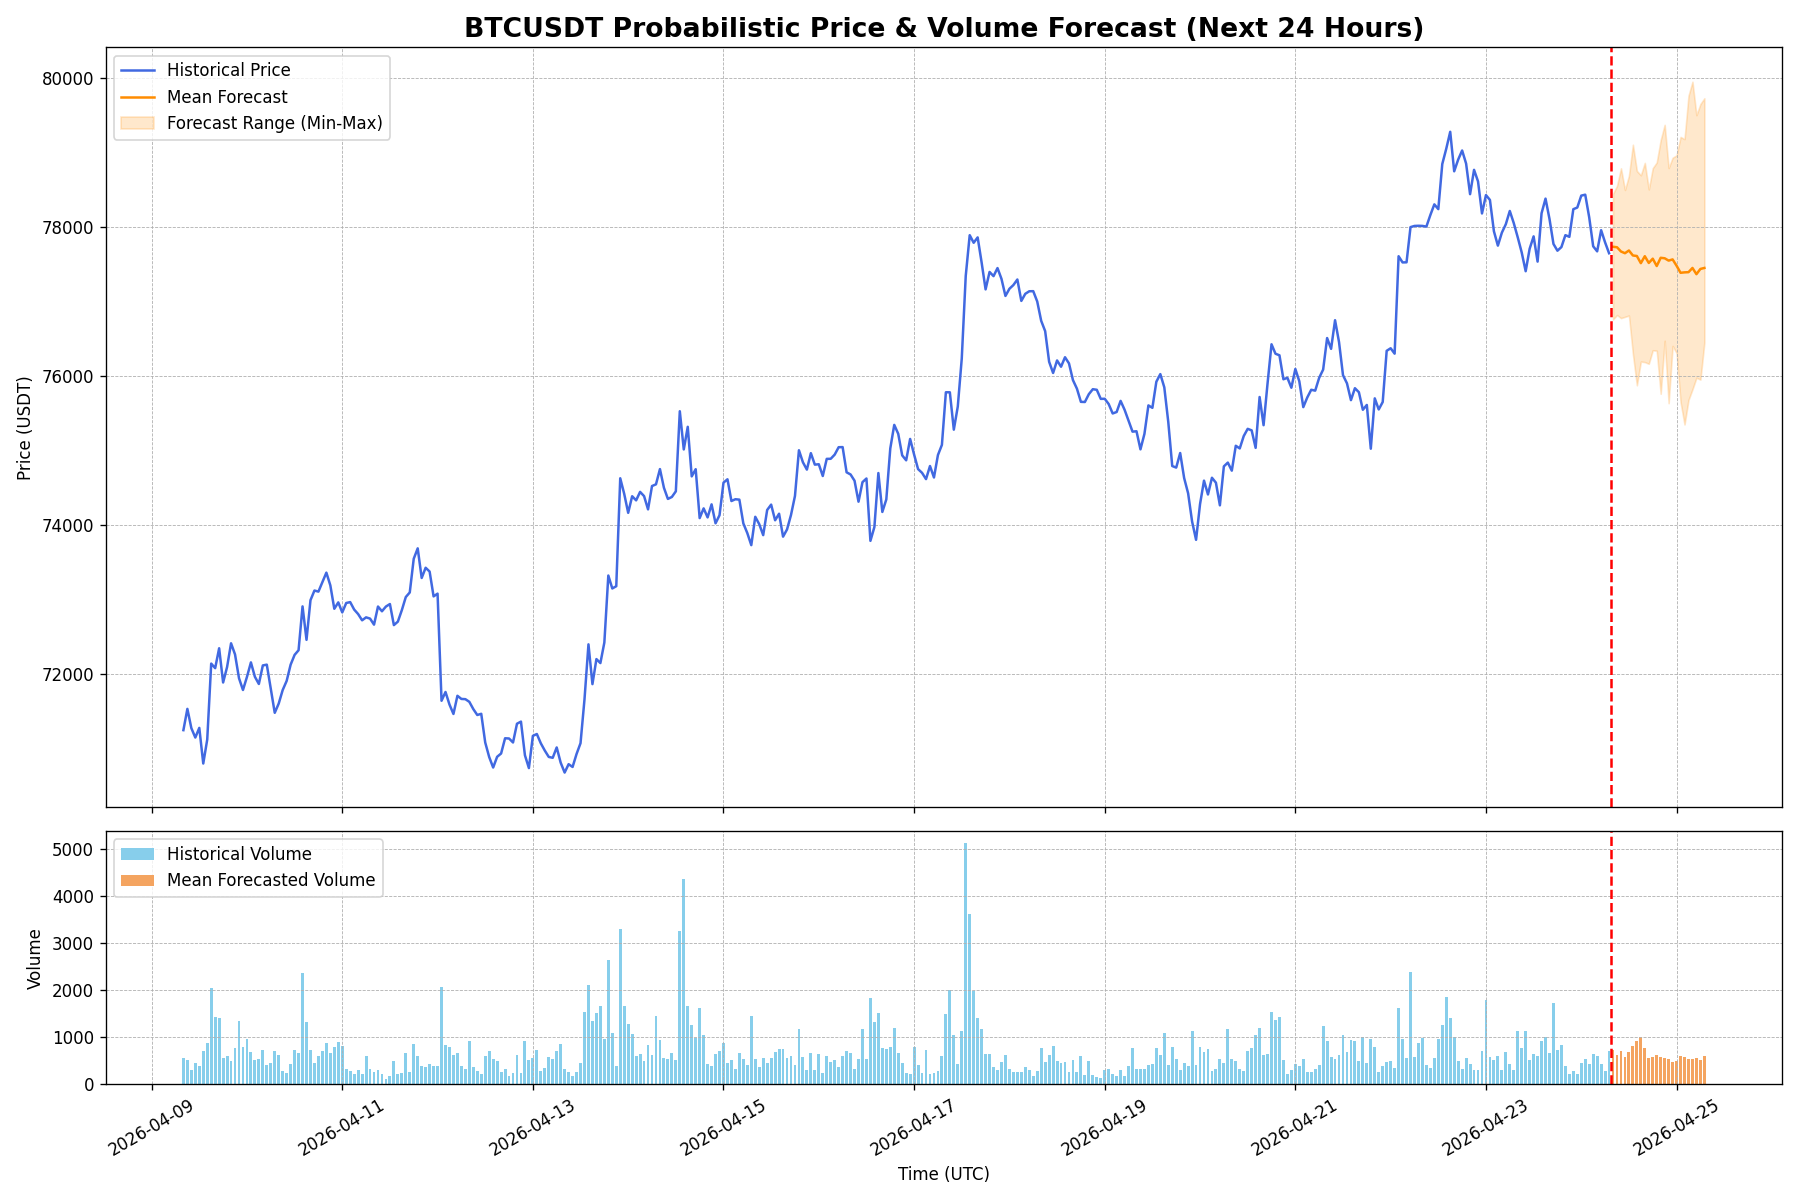
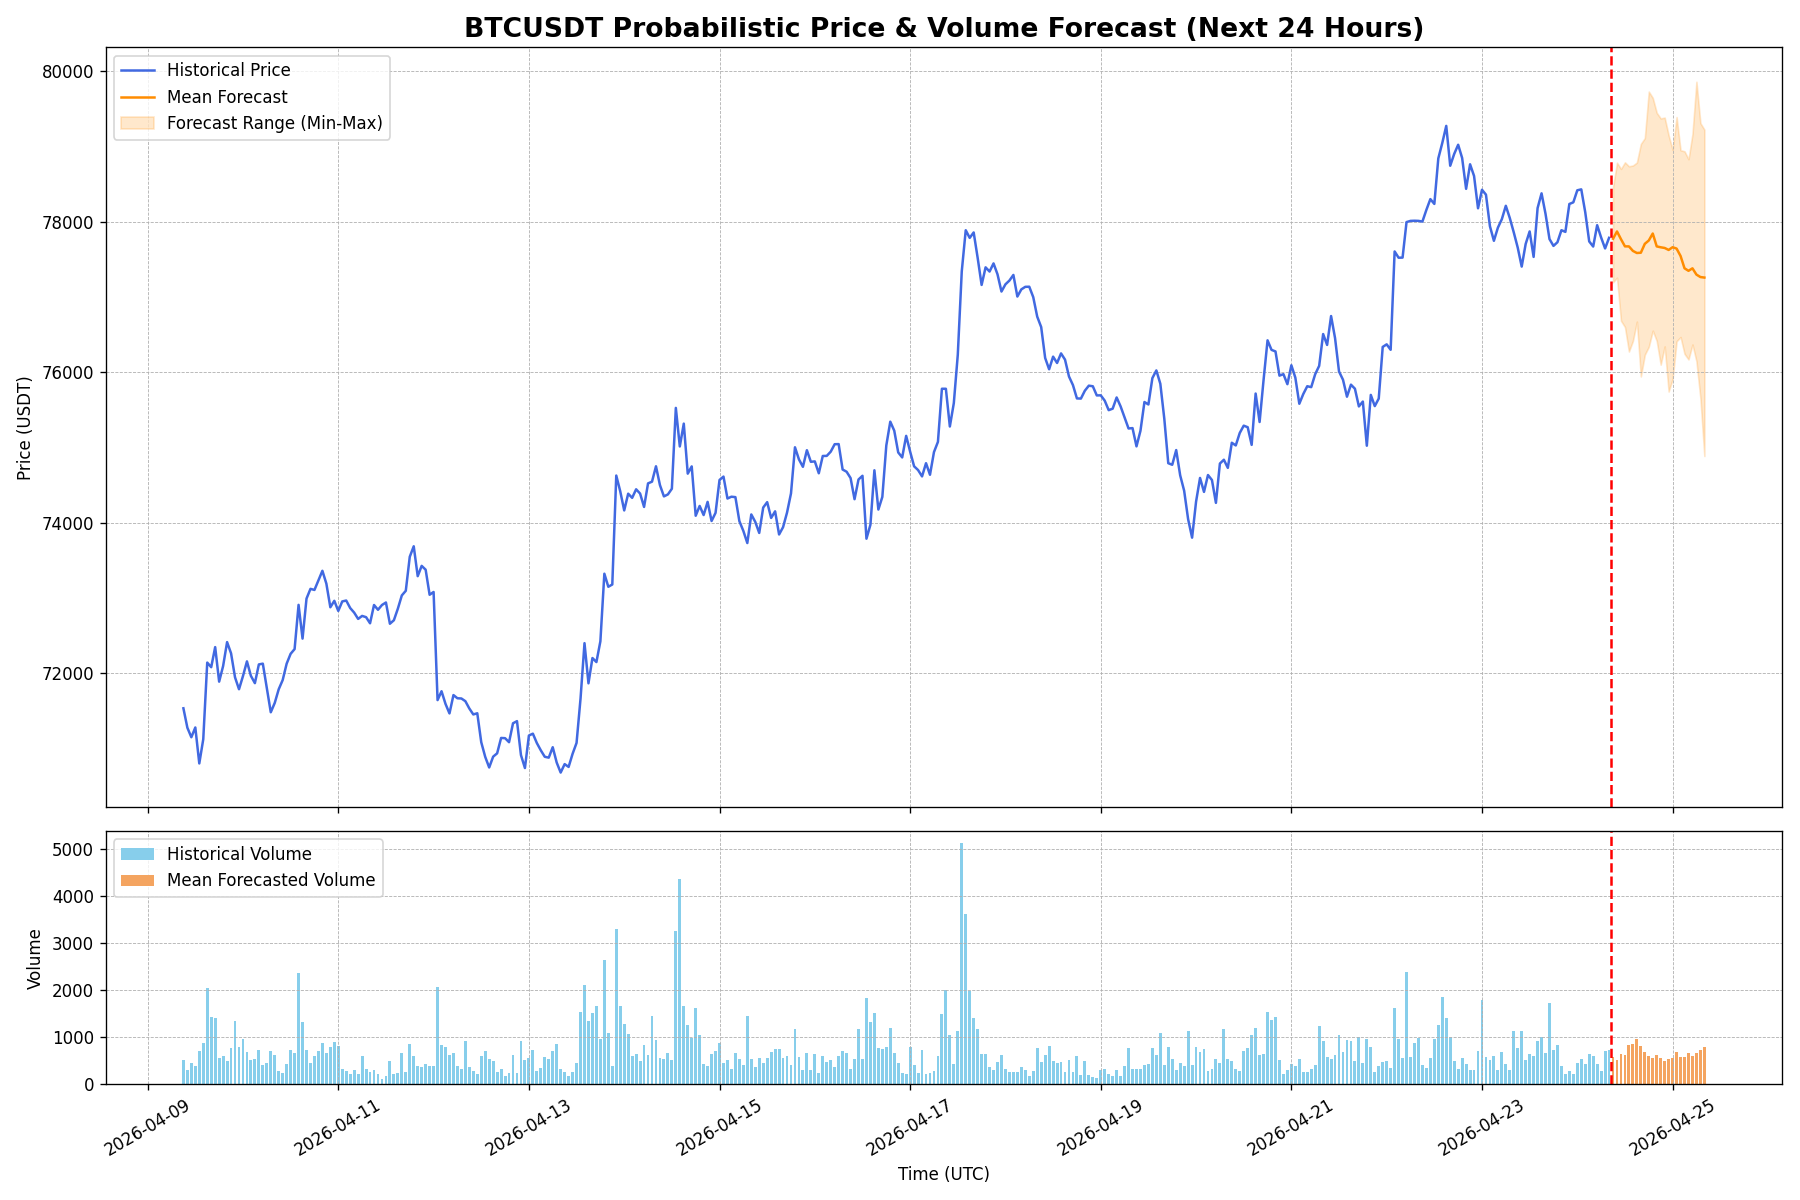
Auto-update forecast for 2026-04-24 09:00 UTC

diff --git a/index.html b/index.html
@@ -22,19 +22,19 @@
         <section id="live-dashboard">
             <h2>Live BTC/USDT Forecast Dashboard</h2>
             <div class="metadata">
-                <span>Last Updated (UTC): <strong id="update-time">2026-04-24 08:00:26</strong></span>
+                <span>Last Updated (UTC): <strong id="update-time">2026-04-24 09:00:25</strong></span>
                 <span>Data Source: Binance | Interval: 1-Hour</span>
             </div>
 
             <div class="metrics-container">
                 <div class="metric-card">
                     <h3>Upside Probability (Next 24h)</h3>
-                    <p class="metric-value" id="upside-prob">33.3%</p>
+                    <p class="metric-value" id="upside-prob">23.3%</p>
                     <div class="metric-desc">The model's confidence that the price in 24 hours will be higher than the last known price.</div>
                 </div>
                 <div class="metric-card">
                     <h3>Volatility Amplification (Next 24h)</h3>
-                    <p class="metric-value" id="vol-amp-prob">86.7%</p>
+                    <p class="metric-value" id="vol-amp-prob">96.7%</p>
                     <div class="metric-desc">The probability that predicted volatility over the next 24h will exceed recent historical volatility.</div>
                 </div>
             </div>
